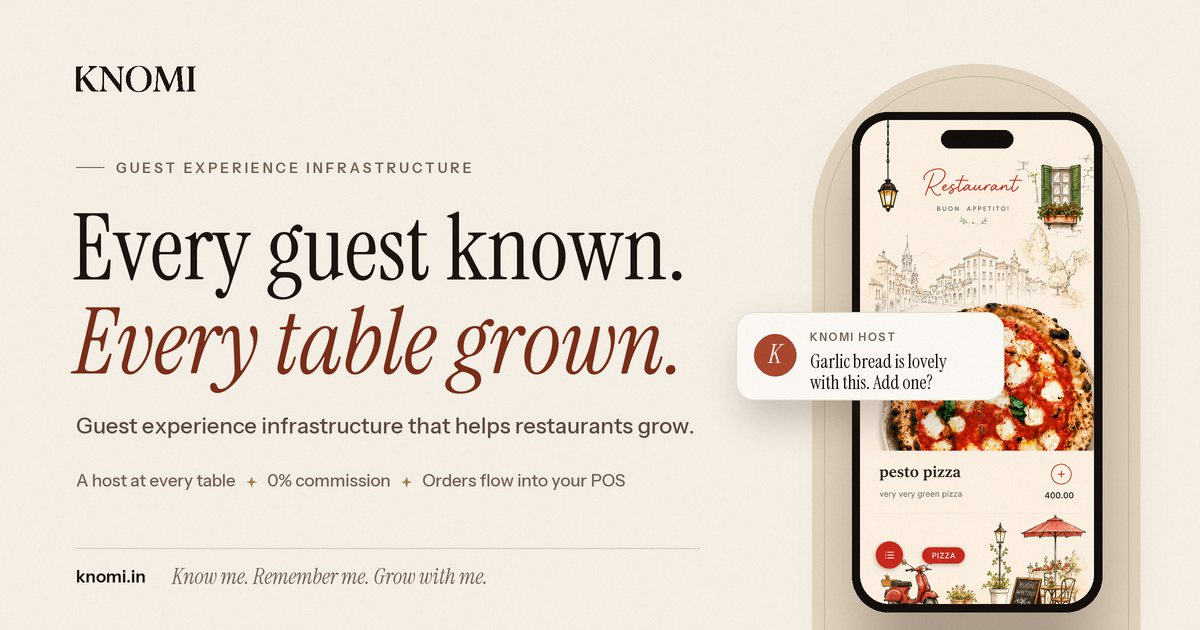
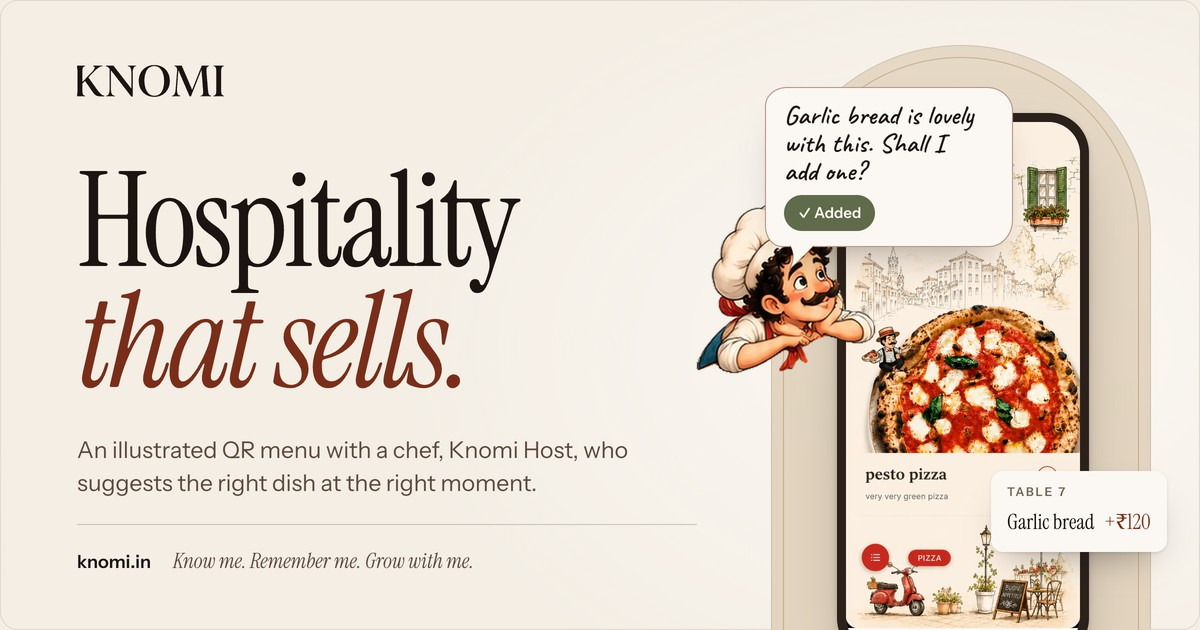
Hero: "Hospitality / that sells.", full descenders, new share image
- Hero headline is now "Hospitality" / "that sells." (chosen by Madhvan from
  a judged shortlist), set larger to suit the shorter lines; page title,
  About page share text and share-image alt updated to match
- Word-reveal masks now leave 0.34em below each word, so the tails of g, y
  and p are no longer sliced off (it affected every word-by-word headline)
- New share image: real KNOMI logo, the new headline and Knomi Host as the
  chef with his hand-lettered garlic-bread line (the old card showed him as
  a "K" chat badge)

diff --git a/src/components/home/Hero.module.css b/src/components/home/Hero.module.css
@@ -61,9 +61,10 @@
 }
 
 .title {
-  /* Each line ("Every guest known." / "Every table grown.") measures about 6.05em,
-     so 15.6% of the column keeps both on one line with a little air to spare. */
-  font-size: clamp(2.5rem, 15.6cqi, 7.25rem);
+  /* The longer line ("Hospitality") measures about 3.35em, so 21% of the column sets
+     it at roughly 70% of the column's width: large, with air to its right. The cap
+     keeps it from overpowering the picture on wide screens. */
+  font-size: clamp(2.75rem, 21cqi, 8.5rem);
   line-height: 0.95;
   letter-spacing: -0.03em;
   text-wrap: initial;
@@ -657,8 +658,10 @@
     max-width: 680px;
   }
 
+  /* Tablet and phone: a little smaller than desktop's 21%, so the picture still
+     starts on the first phone screen. */
   .title {
-    font-size: clamp(2.4rem, 15.6cqi, 5.75rem);
+    font-size: clamp(2.6rem, 20cqi, 7rem);
   }
 
   /* Never wider than the column: children are placed from its centre, so the

diff --git a/src/content/site.ts b/src/content/site.ts
@@ -52,7 +52,7 @@ export const OG_IMAGE = {
   url: "/og-image.jpg",
   width: 1200,
   height: 630,
-  alt: "KNOMI: every guest known, every table grown",
+  alt: "KNOMI: Hospitality that sells. Knomi Host, the chef on an illustrated menu, suggests garlic bread",
 };
 
 export const tagline = ["Know me.", "Remember me.", "Grow with me."] as const;
@@ -120,8 +120,8 @@ const sectionCopy = <T extends SectionCopy>(copy: T): T & SectionCopy => copy;
 
 export const hero = {
   // Two lines; the second renders in the italic accent.
-  titleLead: "Every guest known.",
-  titleAccent: "Every table grown.",
+  titleLead: "Hospitality",
+  titleAccent: "that sells.",
   lead:
     "An illustrated QR menu with a chef, Knomi Host, who suggests the right dish at the right moment. Guests feel looked after, and your average bill rises.",
   primaryCta: { label: "Book a walkthrough", href: "#book" },

diff --git a/src/components/ui/Reveal.module.css b/src/components/ui/Reveal.module.css
@@ -6,13 +6,16 @@
 }
 
 /* Each word sits in its own clipping window. The padding gives italic
-   overhangs and descenders room so they are not shaved off. */
+   overhangs and descenders room so they are not shaved off: Instrument Serif's
+   g and y reach about 0.3em below the baseline at these tight line heights, so
+   the bottom needs 0.34em (0.14em sliced the tails flat). Negative margins keep
+   the line box exactly where it was. */
 .mask {
   display: inline-block;
   overflow: hidden;
   vertical-align: top;
-  padding: 0.04em 0.08em 0.14em 0;
-  margin: -0.04em -0.08em -0.14em 0;
+  padding: 0.08em 0.12em 0.34em 0.08em;
+  margin: -0.08em -0.12em -0.34em -0.08em;
 }
 
 .word {

diff --git a/src/app/layout.tsx b/src/app/layout.tsx
@@ -52,7 +52,7 @@ const rupeeSans = localFont({
   declarations: [{ prop: "unicode-range", value: "U+20B9" }],
 });
 
-const title = "KNOMI | Every guest known. Every table grown.";
+const title = "KNOMI | Hospitality that sells";
 
 const description =
   "KNOMI is guest experience infrastructure that helps restaurants grow. Knomi Sense remembers every guest, Knomi Host suggests the right dish at the right moment at every table, and your average bill rises. No app, no login, works alongside your POS, 0% commission.";

diff --git a/src/app/about/page.tsx b/src/app/about/page.tsx
@@ -112,7 +112,7 @@ export const metadata: Metadata = {
     images: [OG_IMAGE],
     title: "About KNOMI | Guest experience infrastructure for restaurants",
     description:
-      "Every guest known, every table grown. Built in Bengaluru, alongside the tools restaurants already use.",
+      "Hospitality that sells. Built in Bengaluru, alongside the tools restaurants already use.",
     url: "https://www.knomi.in/about",
     siteName: "KNOMI",
     type: "website",
